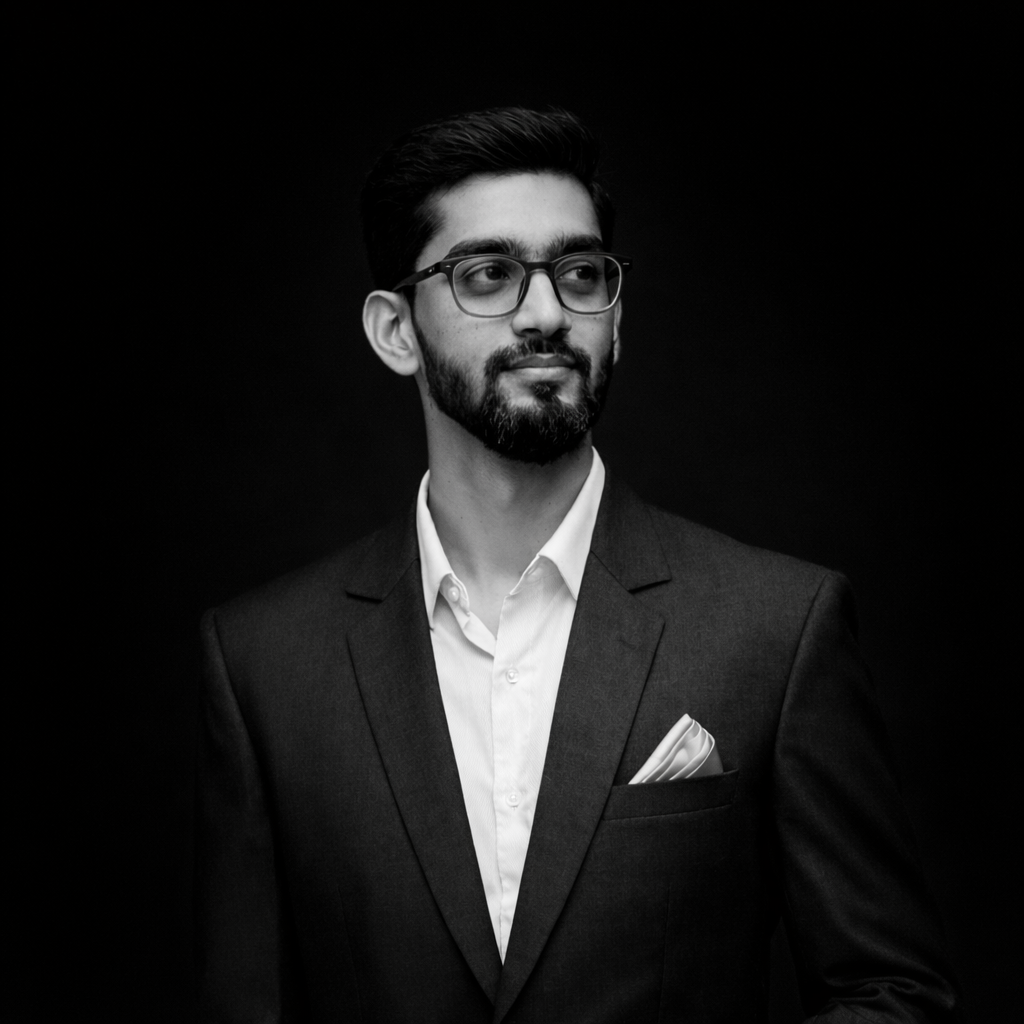
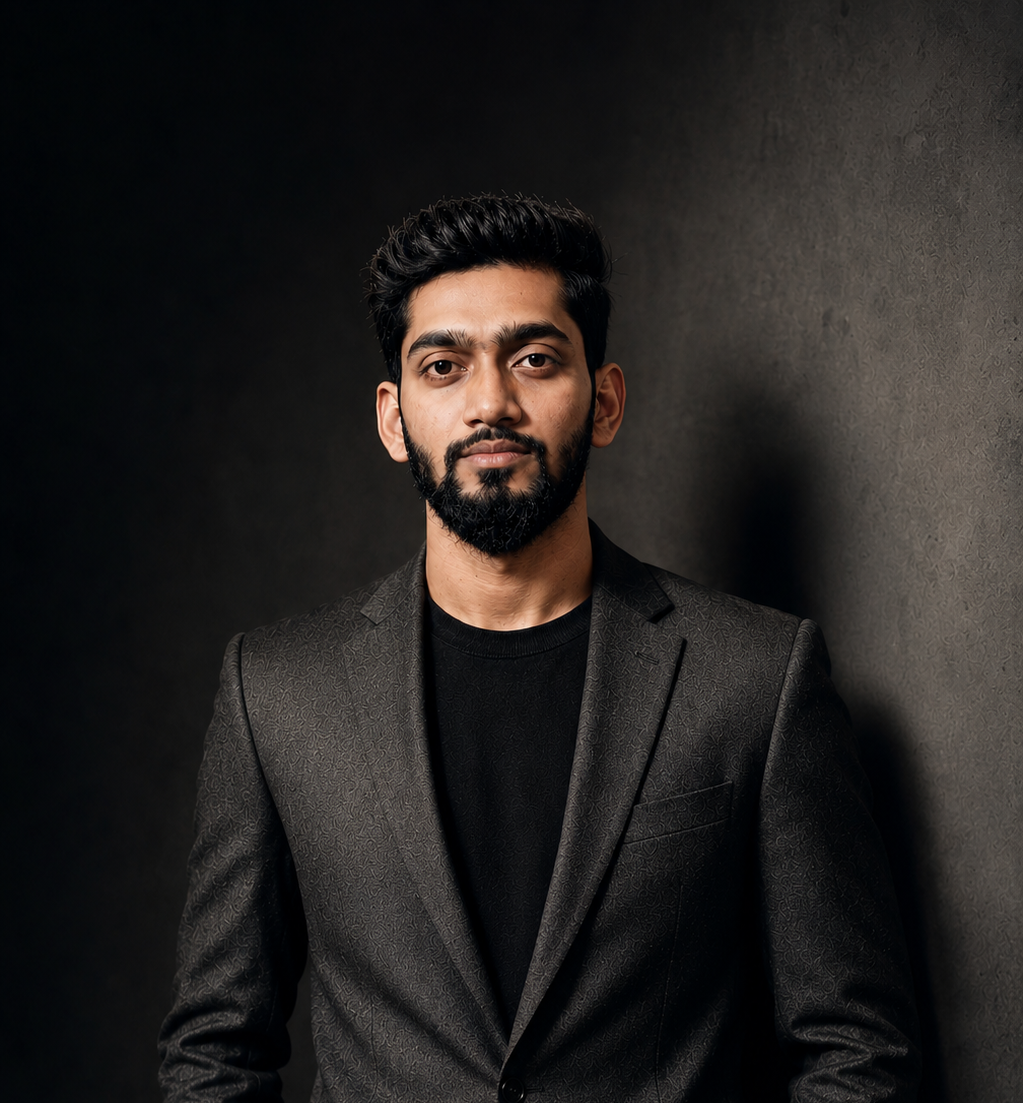
updated mdoc case study

diff --git a/src/components/CaseStudy.tsx b/src/components/CaseStudy.tsx
@@ -250,7 +250,10 @@ const CaseStudy = () => {
                   <div>
                     {project.finalScreens.map((item, i) => (
                       <div key={i} style={{ background: "var(--card-bg)", border: "1px solid rgba(255,255,255,0.08)", borderRadius: "20px", padding: "30px" }}>
-                        <img src={item.url} alt={item.title} style={{ width: "100%" }} />
+                        <picture>
+                          {item.mobileUrl && <source media="(max-width: 768px)" srcSet={item.mobileUrl} />}
+                          <img src={item.url} alt={item.title} style={{ width: "100%", height: "auto" }} />
+                        </picture>
                       </div>
                     ))}
                   </div>

diff --git a/src/data/projects.ts b/src/data/projects.ts
@@ -33,7 +33,7 @@ export interface Project {
   duration: string;
   role: string;
   wireframes: { url: string; title: string }[];
-  finalScreens: { url: string; title: string }[];
+  finalScreens: { url: string; mobileUrl?: string; title: string }[];
   beforeAfter: string[];
   outcome: string;
   thankYou: string;
@@ -217,7 +217,7 @@ const projects: Project[] = [
     role: "UX/UI Designer",
     wireframes: [],
     finalScreens: [
-      { url: "/images/mdoc-final-screens.png", title: "Home Screen" },
+      { url: "/images/mdoc-final-screens.png", mobileUrl: "/images/mdoc-final-screens-responsive.png", title: "Home Screen" },
     ],
     beforeAfter: [],
     outcome: "The redesign improved usability by simplifying navigation and making key actions like booking appointments faster and easier. Enhanced layouts, filters, and AI assistance helped users find relevant information quickly and make better decisions. Overall, the app became more user-friendly, efficient, and accessible, especially for users in rural areas.",

diff --git a/src/components/Landing.tsx b/src/components/Landing.tsx
@@ -26,7 +26,7 @@ const Landing = () => {
             <h1 className="hero-title">
               <span className="hero-title-row" style={{ textTransform: "none" }}>
                 <span><span className="text-grey">Hi </span>I'm Fuaad</span> <span className="hero-pill profile-pill">
-                  <img src="/images/my-profile.png" alt="Fuaad" />
+                  <img src="/images/my-profile-1.png" alt="Fuaad" />
                 </span>
               </span>
               <span className="hero-title-row" style={{ textTransform: "none" }}>

diff --git a/src/components/styles/CaseStudy.css b/src/components/styles/CaseStudy.css
@@ -600,7 +600,7 @@
   }
 
   .cs-problem-screens-images {
-    grid-template-columns: 1fr;
+    grid-template-columns: repeat(2, 1fr);
   }
 
   /* .cs-hero {

diff --git a/src/components/styles/Landing.css b/src/components/styles/Landing.css
@@ -259,7 +259,7 @@
   width: 100%;
   height: 100%;
   object-fit: cover;
-  object-position: center 15%;
+  object-position: center 28%;
   /* adjust this percentage to move the image up/down inside the pill */
   position: absolute;
   top: 0;